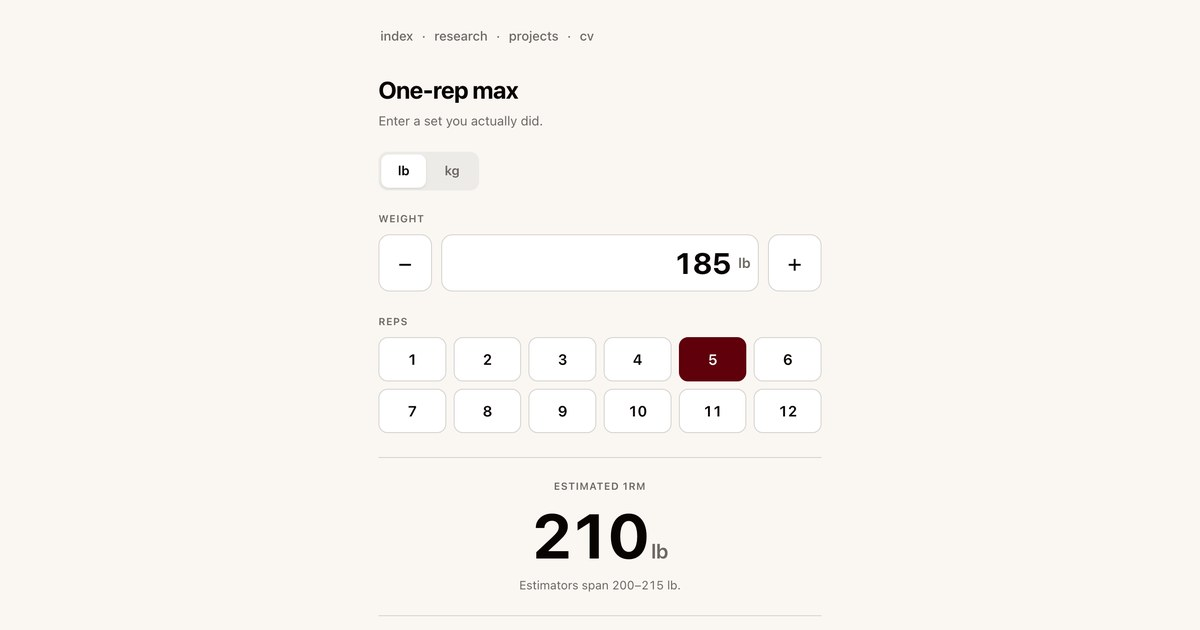
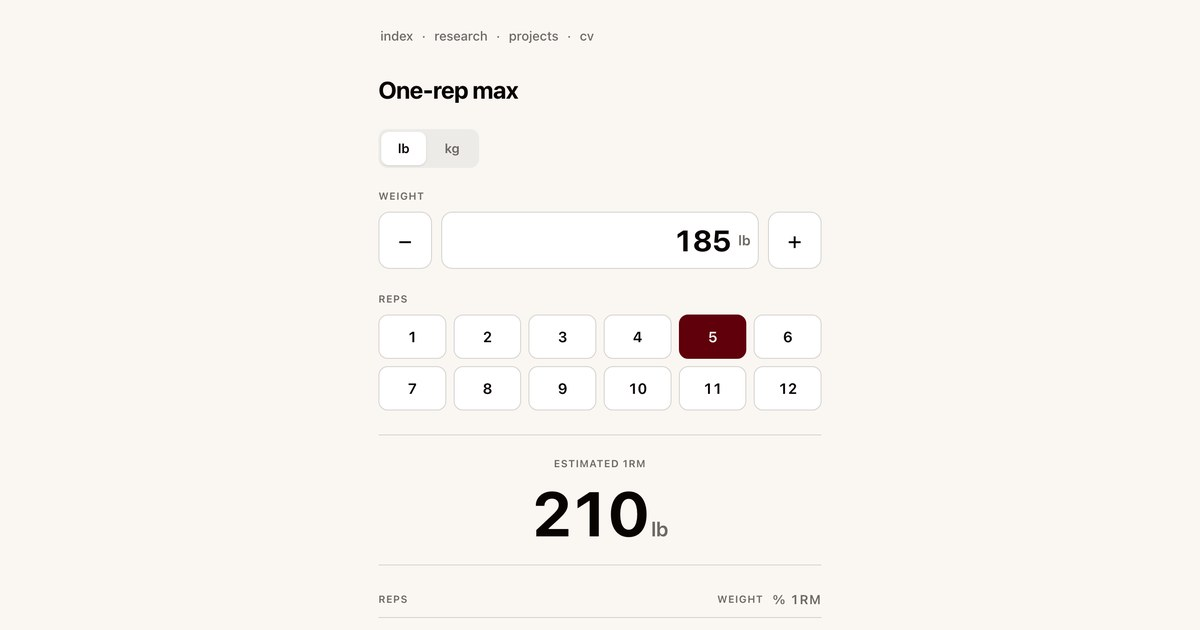
1rm: one formula, named on the page
Drops the line under the title, the two paragraphs of footer explanation, and
the estimator-spread line under the number. What is left in the footer is a
link to the Epley formula on Wikipedia.

That link is now the page's whole account of itself, so the page had to
actually use Epley rather than a median of seven estimators -- naming one
formula while computing another is a claim the reader cannot check. Epley is
still divided by its own value at one rep: raw, it reports 1.03x the bar for a
true single, which is not an estimate of anything.

Numbers barely move (185x5 reads 210 either way) and the round-trip property
holds: the table row at your rep count reads back the weight you entered. The
5 lb rounding collision at 11 and 12 reps is gone.

There is no "Ripley's formula" -- no such article on Wikipedia and no such
estimator in the literature. Read as Epley, which is what the linked section
leads with.

Service worker cache bumped to v2 so installed copies pick up the new shell.

diff --git a/1rm/index.html b/1rm/index.html
@@ -73,8 +73,7 @@ body{
 nav.top{font-size:14px;font-weight:500;color:var(--dim);margin:0 0 26px}
 nav.top a{color:inherit;text-decoration:none;padding:0 2px}
 nav.top a:hover{color:var(--ink)}
-h1{font-size:26px;font-weight:700;letter-spacing:-0.025em;margin:0}
-.sub{font-size:14px;color:var(--dim);margin:2px 0 22px}
+h1{font-size:26px;font-weight:700;letter-spacing:-0.025em;margin:0 0 22px}
 .lbl{display:block;font-size:11px;font-weight:600;text-transform:uppercase;letter-spacing:0.07em;color:var(--dim);margin:0 0 8px}
 
 /* unit toggle */
@@ -126,7 +125,6 @@ h1{font-size:26px;font-weight:700;letter-spacing:-0.025em;margin:0}
 .big{font-size:clamp(48px,15vw,68px);font-weight:700;letter-spacing:-0.04em;line-height:1;font-variant-numeric:tabular-nums}
 .big .ou{font-size:22px;font-weight:600;color:var(--dim);letter-spacing:0}
 .cap{font-size:11px;font-weight:600;text-transform:uppercase;letter-spacing:0.07em;color:var(--dim);margin:0 0 10px}
-.range{font-size:13px;color:var(--dim);margin:10px 0 0;font-variant-numeric:tabular-nums}
 
 /* table */
 table{width:100%;border-collapse:collapse;font-variant-numeric:tabular-nums}
@@ -155,7 +153,6 @@ footer p{margin:0 0 8px}
 <nav class="top"><a href="/" class="active">index</a> &nbsp;&middot;&nbsp; <a href="/research.html">research</a> &nbsp;&middot;&nbsp; <a href="/projects.html">projects</a> &nbsp;&middot;&nbsp; <a href="/cv/">cv</a></nav>
 
 <h1>One-rep max</h1>
-<p class="sub">Enter a set you actually did.</p>
 
 <div class="units" role="group" aria-label="Units">
   <button type="button" data-unit="lb" aria-pressed="true">lb</button>
@@ -176,7 +173,6 @@ footer p{margin:0 0 8px}
   <p class="cap">Estimated 1RM</p>
   <div aria-live="polite">
     <div class="big"><span id="orm">—</span><span class="ou" id="ou">&nbsp;lb</span></div>
-    <p class="range" id="range"></p>
   </div>
 </div>
 
@@ -186,8 +182,7 @@ footer p{margin:0 0 8px}
 </table>
 
 <footer>
-  <p>Median of seven published estimators (Epley, Brzycki, Lombardi, O&rsquo;Conner, Wathan, Mayhew, Lander), normalised so a single rep returns the weight you lifted. Accuracy falls off above about eight reps.</p>
-  <p>Weights round to the nearest 5&nbsp;lb / 2.5&nbsp;kg &mdash; what a bar can actually be loaded to.</p>
+  <p><a href="https://en.wikipedia.org/wiki/One-repetition_maximum#Estimating_1RM" target="_blank" rel="noopener">Epley formula</a></p>
   <p id="ios-hint" hidden>Share &rarr; Add to Home Screen to keep it offline.</p>
   <p><button type="button" id="install" hidden>Install</button></p>
   <p><a href="/">ericspencer.us</a></p>
@@ -198,27 +193,11 @@ footer p{margin:0 0 8px}
 (function(){
   "use strict";
 
-  // 1RM/weight ratio at r reps, per estimator. Each is divided by its own value
-  // at r=1, so a single rep always reports back the weight you put in rather
-  // than a formula's residual disagreement with itself.
-  var F = [
-    function(r){ return 1 + r/30; },                              // Epley
-    function(r){ return 36/(37-r); },                             // Brzycki
-    function(r){ return Math.pow(r, 0.10); },                     // Lombardi
-    function(r){ return 1 + 0.025*r; },                           // O'Conner
-    function(r){ return 100/(48.8 + 53.8*Math.exp(-0.075*r)); },  // Wathan
-    function(r){ return 100/(52.2 + 41.9*Math.exp(-0.055*r)); },  // Mayhew
-    function(r){ return 100/(101.3 - 2.67123*r); }                // Lander
-  ];
-  var BASE = F.map(function(f){ return f(1); });
-
-  function factors(r){
-    return F.map(function(f,i){ return f(r)/BASE[i]; }).sort(function(a,b){ return a-b; });
-  }
-  function median(a){
-    var m = a.length >> 1;
-    return a.length % 2 ? a[m] : (a[m-1]+a[m])/2;
-  }
+  // Epley: 1RM = w(1 + r/30), divided by its own value at one rep. Raw Epley
+  // reports 1.03x the bar for a true single, which is not an estimate of
+  // anything; normalised, one rep hands back the weight you lifted and the
+  // table row at your rep count reads back the weight you entered.
+  function factor(r){ return (30 + r) / 31; }
 
   var MAXREPS = 12;
   var UNITS = { lb:{step:5, round:5}, kg:{step:2.5, round:2.5} };
@@ -234,7 +213,6 @@ footer p{margin:0 0 8px}
       $wu = document.getElementById("wu"),
       $ou = document.getElementById("ou"),
       $orm = document.getElementById("orm"),
-      $range = document.getElementById("range"),
       $reps = document.getElementById("reps"),
       $tbl = document.getElementById("tbl");
 
@@ -269,21 +247,16 @@ footer p{margin:0 0 8px}
     var w = state.weight;
     if (!(w > 0)) {
       $orm.textContent = "—";
-      $range.textContent = "";
       $tbl.innerHTML = "";
       return;
     }
 
-    var fs = factors(state.reps);
-    var orm = w * median(fs);
+    var orm = w * factor(state.reps);
     $orm.textContent = fmt(roundTo(orm, u.round));
-    $range.textContent = state.reps === 1
-      ? "A single rep is the measurement, not an estimate."
-      : "Estimators span " + fmt(roundTo(w*fs[0], u.round)) + "–" + fmt(roundTo(w*fs[fs.length-1], u.round)) + " " + state.unit + ".";
 
     var rows = "";
     for (var r = 1; r <= MAXREPS; r++) {
-      var exact = orm / median(factors(r));
+      var exact = orm / factor(r);
       var shown = roundTo(exact, u.round);
       rows += '<tr' + (r === state.reps ? ' class="here"' : '') + '>'
             + "<td>" + r + "</td>"

diff --git a/tests/1rm.test.html b/tests/1rm.test.html
@@ -22,12 +22,11 @@ window.addEventListener("load", function(){
   // rep chip
   click(d.querySelector('#reps button[data-r="1"]'));
   ok("1 rep returns the lift", orm(), "185");
-  ok("1 rep note", d.getElementById("range").textContent.indexOf("measurement") > -1, "true");
   ok("row1 = 100%", rows()[0], "1:185:100%");
 
   click(d.querySelector('#reps button[data-r="8"]'));
-  ok("8 reps 1RM", orm(), "230");
-  ok("row8 = input weight", rows()[7], "8:185:81%");
+  ok("8 reps 1RM", orm(), "225");
+  ok("row8 = input weight", rows()[7], "8:185:82%");
 
   // +/- stepper snaps to the increment
   var plus = d.querySelector('.step[data-d="1"]'), minus = d.querySelector('.step[data-d="-1"]');

diff --git a/1rm/sw.js b/1rm/sw.js
@@ -1,6 +1,6 @@
 // Offline shell for /1rm/. Bump CACHE to ship a new version: the old cache is
 // dropped on activate, so a stale page can never outlive its own assets.
-var CACHE = "1rm-v1";
+var CACHE = "1rm-v2";
 var CORE = [
   "/1rm/",
   "/1rm/index.html",
